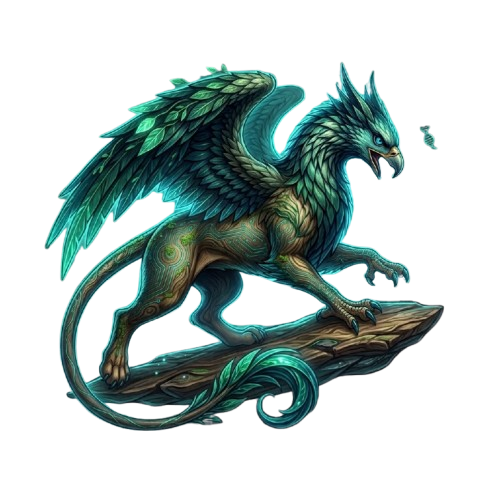
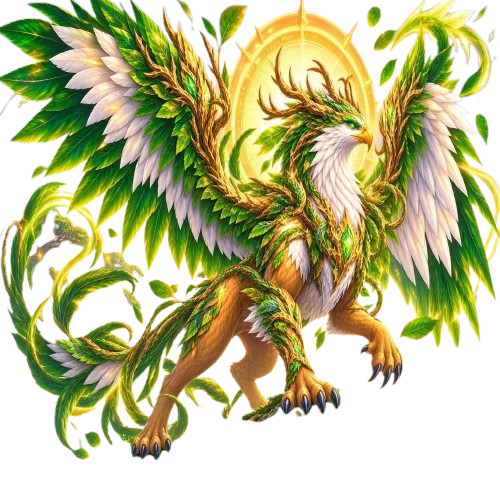
Refresh egg3 stage 3-4 art (all 9 sublines/personalities)
New illustrated sprites replace the previous stage3/stage4 art for
math/science/balanced sublines. Ground-offset values in
spriteGroundOffsets.ts were re-measured from the new files' alpha
channels so raid-scene sprites still anchor correctly on the ground.

diff --git a/src/lib/raid/spriteGroundOffsets.ts b/src/lib/raid/spriteGroundOffsets.ts
@@ -24,12 +24,12 @@ export const SPRITE_GROUND_OFFSET_PCT: Record<string, number> = {
   "/pets/egg2_stage4_math_B.png": 4.8,
   "/pets/egg2_stage4_science_A.png": 0,
   "/pets/egg2_stage4_science_B.png": 4.0,
-  "/pets/egg3_stage4_balance_A.png": 5.2,
-  "/pets/egg3_stage4_balance_B.png": 4.8,
-  "/pets/egg3_stage4_math_A.png": 17.0,
-  "/pets/egg3_stage4_math_B.png": 2.4,
-  "/pets/egg3_stage4_science_A.png": 7.4,
-  "/pets/egg3_stage4_science_B.png": 4.8,
+  "/pets/egg3_stage4_balance_A.png": 5.8,
+  "/pets/egg3_stage4_balance_B.png": 0.8,
+  "/pets/egg3_stage4_math_A.png": 0.8,
+  "/pets/egg3_stage4_math_B.png": 2.2,
+  "/pets/egg3_stage4_science_A.png": 2.6,
+  "/pets/egg3_stage4_science_B.png": 0,
   "/pets/egg4_stage4_balance_A.png": 10.0,
   "/pets/egg4_stage4_balance_B.png": 8.8,
   "/pets/egg4_stage4_math_A.png": 7.6,
